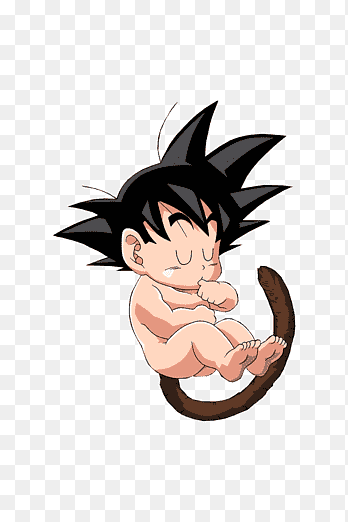
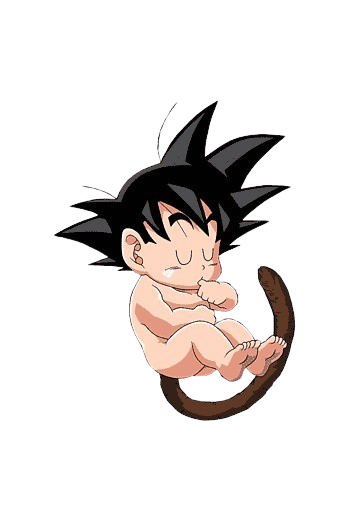
modulo confirmacion

diff --git a/src/app/modules/confirmacion/confirmacion.component.html b/src/app/modules/confirmacion/confirmacion.component.html
@@ -1,9 +1,9 @@
 <section class="container">
   <header>
     <img
-      src="../../../assets/img/principal/principal2.webp"
-      alt="personaje2"
-      class="personaje2"
+      src="../../../assets/img/personaje7/personaje7.png"
+      alt="personaje7"
+      class="personaje7"
       width="200"
     />
     <h2>
@@ -15,38 +15,40 @@
 
   <main>
     <img
-      src="../../../assets/img/personaje2/personaje2.webp"
-      alt="personaje2"
-      class="personaje2"
+      src="../../../assets/img/personaje3/personaje3.png"
+      alt="personaje3"
+      class="personaje3"
       width="200"
     />
 
     <img
-      src="../../../assets/img/personaje3/personaje3.webp"
-      alt="personaje3"
-      class="personaje3"
+      src="../../../assets/img/personaje2/personaje2-2.png"
+      alt="personaje2"
+      class="personaje2"
       width="200"
     />
 
     <section class="confirmacion">
       <address>
         <section>
-          <span>Mayo 2025</span>
-          <strong>04</strong>
+          <span>Junio 2025</span>
+          <strong>22</strong>
           <span>3:30 pm</span>
         </section>
 
-        <strong>Unidad Sauce</strong>
-        <span>Hacienda Kachipay</span>
-        <a href="https://maps.app.goo.gl/SQSZPVGLUZuXaDxS8" target="_blank">
-          <span>Cra. 119 # 60 - 144</span>
+        <strong>Metropolitano del Norte</strong>
+        <a href="https://maps.app.goo.gl/Fckpw2LCX1bacP6w9" target="_blank">
+          <span>Cra. 1a11#69-20</span>
         </a>
-        <small>Lluvia de sobres o regalo</small>
+        <p>
+          <small>Es niño? Trae Pañitos</small>
+          <small>Es niña? Trae Pañales</small>
+        </p>
       </address>
 
       <small>
         <a
-          href="https://maps.app.goo.gl/SQSZPVGLUZuXaDxS8"
+          href="https://maps.app.goo.gl/Fckpw2LCX1bacP6w9"
           class="mapa"
           target="_blank"
           >¿No sabes dónde queda? <br />Click Aquí para ver el mapa</a
@@ -55,13 +57,13 @@
 
       <div class="action">
         <a
-          href="https://wa.me/573011979357?text=Hola%2C%20queria%20comentarte%20que%20tengo%20muchas%20ganas%20de%20asistir%20al%20Baby%20Shower%20de%20Daniela%2C%20cuenta%20conmigo%20para%20ese%20dia.%20"
+          href="https://wa.me/573137683510?text=Hola%2C%20queria%20comentarte%20que%20tengo%20muchas%20ganas%20de%20asistir%20a%20la%20revelacion%20de%20genero%2C%20de%20tu%20bebe."
           target="_blank"
           class="primary"
           >Sí Asistiré</a
         >
         <a
-          href="https://wa.me/573011979357?text=Hola%2C%20me%20entristece%20decirte%20que%20no%20podré%20asistir%20al%20Baby%20Shower%20de%20Daniela%2C%20por%20fuerza%20mayor,%2C%20prometo%20que%20paso%20a%20saludarla%20luego.%20"
+          href="https://wa.me/573137683510?text=Hola%2C%20me%20entristece%20decirte%20que%20no%20podré%20asistir%20a%20la%20revelacion%20de%20genero%2C%20de%20tu%20bebe."
           target="_blank"
           class="secondary"
           >No Podré</a
@@ -72,8 +74,8 @@
 
   <footer>
     <img
-      *ngFor="let i of [8, 9, 11, 12, 13, 14, 8, ]"
-      [src]="'../../../assets/img/fondo/decoracion' + i + '.png'"
+      *ngFor="let i of [8, 9, 11, 12, 13, 14, 8]"
+      [src]="'../../../assets/img/fondo/decoracion' + i + '.webp'"
       alt="decoracion"
     />
   </footer>

diff --git a/src/app/modules/confirmacion/confirmacion.component.css b/src/app/modules/confirmacion/confirmacion.component.css
@@ -20,7 +20,7 @@ header {
 }
 
 header img {
-  animation: to-down 1s linear both 500ms;
+  animation: to-down 10s linear both 500ms;
   filter: drop-shadow(0px 5px 5px rgba(0, 0, 0, 0.5));
 }
 
@@ -29,9 +29,21 @@ header img {
     opacity: 0;
     transform: translateY(-50svh);
   }
-  100% {
+  10% {
     opacity: 1;
     transform: translateY(0);
+  }
+  50% {
+    opacity: 1;
+    transform: translateY(0);
+  }
+  90% {
+    opacity: 1;
+    transform: translateY(0);
+  }
+  100% {
+    opacity: 0;
+    transform: translateY(-50svh);
   }
 }
 
@@ -80,6 +92,7 @@ main .personaje2 {
   position: relative;
   width: 50%;
   filter: drop-shadow(0 5px 5px black);
+  bottom: -10svh;
 }
 
 @keyframes slide-left-rotate {
@@ -109,6 +122,7 @@ main .personaje3 {
   position: relative;
   width: 50%;
   filter: drop-shadow(0 5px 5px black);
+  bottom: -10svh;
 }
 
 @keyframes slide-right-rotate {
@@ -151,13 +165,16 @@ main .confirmacion {
 
 main .confirmacion small {
   font-size: 0.7em;
+  background: #0005;
+  padding: 0.5vh 2vw;
+  border-radius: 10px;
 }
 
 main .confirmacion .mapa {
   text-decoration: underline;
   color: #fff;
-  font-weight: bolder;
   text-shadow: 0px 5px 5px rgba(0, 0, 0, 0.5);
+  letter-spacing: 2px;
 }
 
 main .confirmacion address {
@@ -165,11 +182,22 @@ main .confirmacion address {
   flex-direction: column;
 }
 
-main .confirmacion address small {
-  background: #fff;
+main .confirmacion address p {
+  display: flex;
+  justify-content: space-between;
+  align-items: center;
+  gap: 10px;
+}
+
+main .confirmacion address p small {
   color: #000;
-  width: 100%;
-  border-radius: 10px;
+  width: fit-content;
+  background: var(--color-secondary, #ff00ee);
+  letter-spacing: 2px;
+}
+
+main .confirmacion address p small:nth-child(1) {
+  background: var(--color-primary, #005dd6);
 }
 
 main .confirmacion address span {
@@ -213,13 +241,16 @@ main .confirmacion address section strong {
 }
 
 .action .primary {
-  background-color: var(--color-primary , #005dd6);
+  background-color: var(--color-primary, #005dd6);
   color: #fff;
-  font-weight: bold;
+  font-weight: normal;
   border-radius: 20px;
+  letter-spacing: 2px;
 }
 
 .action .secondary {
   background-color: #fff;
   color: var(--color-primary, #005dd6);
+  letter-spacing: 2px;
+  font-weight: normal;
 }

diff --git a/src/app/modules/marco/marco.component.ts b/src/app/modules/marco/marco.component.ts
@@ -17,7 +17,7 @@ export class MarcoComponent {
       this.titulo.nativeElement.style.animation = 'none';
       setTimeout(() => (this.titulo.nativeElement.style.opacity = 0), 10000);
 
-      // setTimeout(() => this.route.navigate(['confirmacion']), 20000);
+      setTimeout(() => this.route.navigate(['confirmacion']), 20000);
     }, 3000);
   }
 }

diff --git a/src/app/modules/marco/marco.component.html b/src/app/modules/marco/marco.component.html
@@ -43,7 +43,7 @@
         <label>Metropolitano del Norte</label>
         <label>Cra. 1a11#69-20</label>
         <span>22 Junio - 3:30pm</span
-        ><!-- Actualizar fechas y terminar de organizar elementos -->
+        >
       </address>
     </section>
   </main>

diff --git a/src/app/modules/splash/splash.component.css b/src/app/modules/splash/splash.component.css
@@ -1,7 +1,7 @@
 section.container {
   background-image: url("../../../assets/img/fondo/fondo1.webp");
   background-size: cover;
-  background-position: left;
+  background-position: bottom;
   background-repeat: no-repeat;
 }
 
